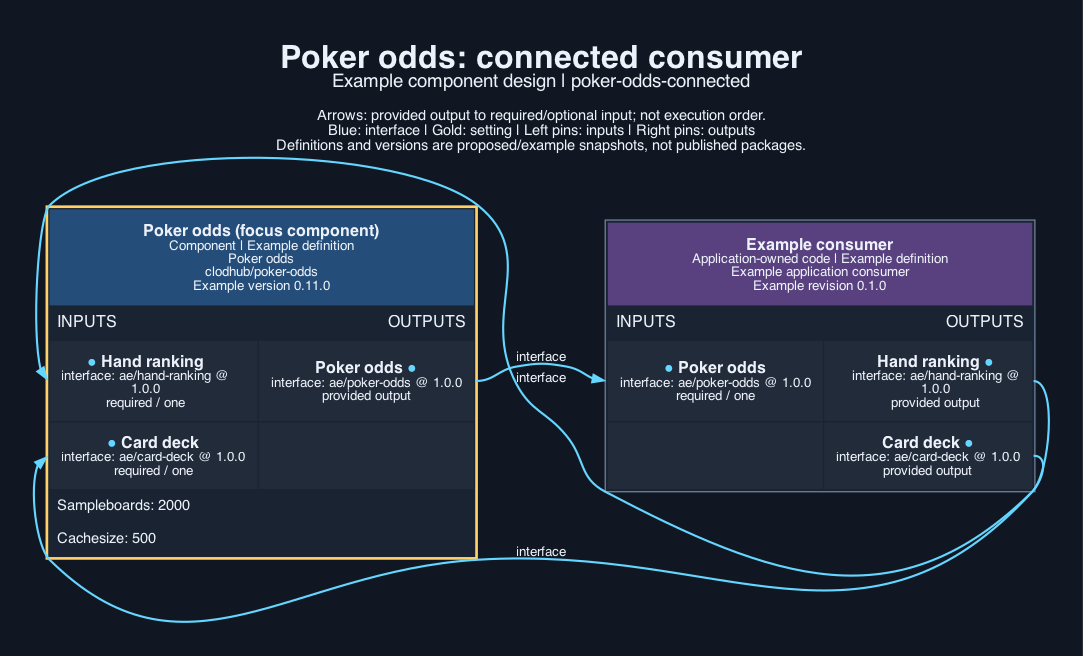
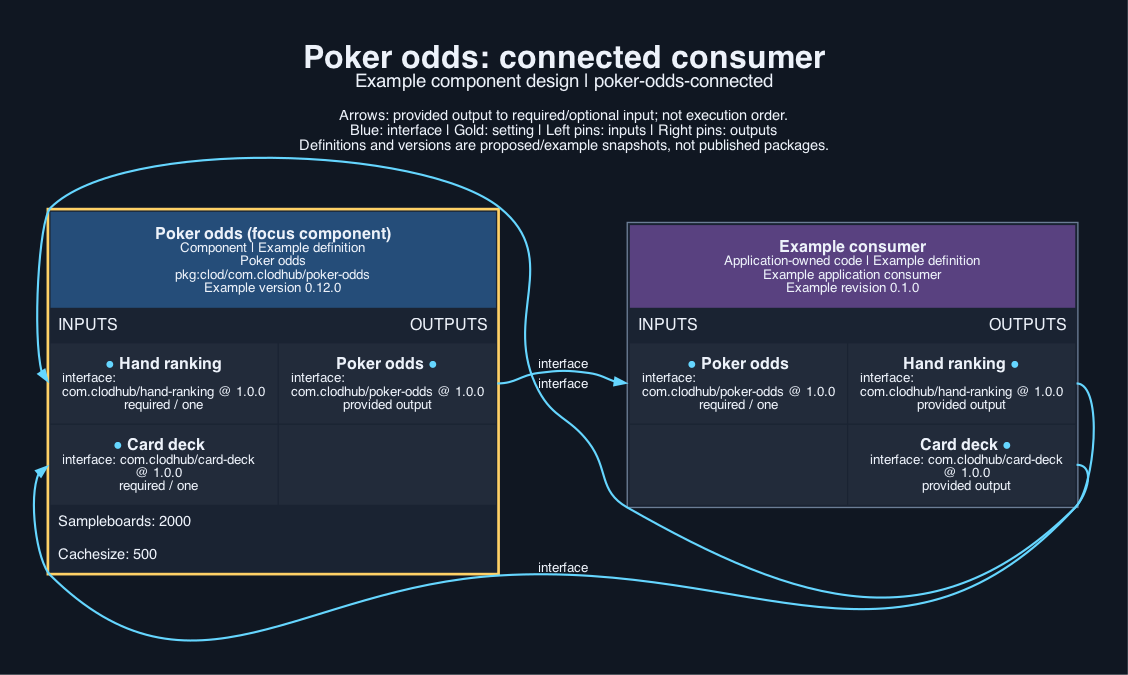
poker-odds 0.12.0: package URL names, clod, com.clodhub interface types

diff --git a/implementation/server/types.ts b/implementation/server/types.ts
@@ -1,4 +1,4 @@
-// The part of the hand-ranking and card-deck interfaces that odds reads (ae/hand-ranking 1.0.0).
+// The part of the hand-ranking and card-deck interfaces that odds reads (com.clodhub/hand-ranking 1.0.0).
 export type Card = string;
 
 export type Evaluation = { score: number; category: string; ranks: number[]; name: string };

diff --git a/INSTRUCTIONS.md b/INSTRUCTIONS.md
@@ -3,13 +3,13 @@
 ## For the agent
 Select this component when the application teaches or displays hand chances, and always when poker-strategy is selected. Connect its hand-ranking input to poker-hand-ranking and its card-deck input to the application's card-deck. Leave the settings at their defaults unless the pre-flop rows are too slow or too coarse.
 
-- Select package `clodhub/poker-odds` version `0.11.0`.
+- Select package `pkg:clod/com.clodhub/poker-odds` version `0.12.0`.
 - Settings to configure:
   - `sampleBoards` (integer; optional; default `2000`)
   - `cacheSize` (integer; optional; default `500`)
-- Connect the provided `poker-odds` (ae/poker-odds 1.0.0) to the consumer that needs it.
-- Supply `hand-ranking` (ae/hand-ranking 1.0.0) from the component that provides it.
-- Supply `card-deck` (ae/card-deck 1.0.0) from the component that provides it.
+- Connect the provided `poker-odds` (com.clodhub/poker-odds 1.0.0) to the consumer that needs it.
+- Supply `hand-ranking` (com.clodhub/hand-ranking 1.0.0) from the component that provides it.
+- Supply `card-deck` (com.clodhub/card-deck 1.0.0) from the component that provides it.
 - No accounts or keys are needed.
 
 ## For the developer
@@ -19,4 +19,4 @@ No accounts or keys. `sampleBoards` (default 2000) is the number of pre-flop boa
 From the component directory:
 
 - `node --test tests/server.test.ts` (web, required-local; tools: node 26.5)
-- `python3 -m aepm review <digest> --store STORE --policy POLICY --trusted --allow-network` checks an archive fetched with `python3 -m aepm fetch clodhub/poker-odds@VERSION --store STORE --from https://clodhub.com` and runs its suites.
+- `python3 -m clod review <digest> --store STORE --policy POLICY --trusted --allow-network` checks an archive fetched with `python3 -m clod fetch poker-odds@VERSION --store STORE --from https://clodhub.com` and runs its suites.

diff --git a/CONTRACT.md b/CONTRACT.md
@@ -22,11 +22,11 @@ Dependencies: none.
 `tools.lock.json` pins verification tools: node 26.5. Licence: `Apache-2.0` (`LICENCE`, `NOTICE`).
 
 ## Provided interfaces
-- `interfaces/poker-odds.json` defines `poker-odds` (ae/poker-odds) version 1.0.0: an OpenRPC 1.3.2 document, one method per function (a member of a created object is `<Type>.<member>`), with parameter, result and data types as JSON Schema 2020-12 (`components.schemas`) and thrown errors under `errors`.
+- `interfaces/poker-odds.json` defines `poker-odds` (com.clodhub/poker-odds) version 1.0.0: an OpenRPC 1.3.2 document, one method per function (a member of a created object is `<Type>.<member>`), with parameter, result and data types as JSON Schema 2020-12 (`components.schemas`) and thrown errors under `errors`.
 
 ## Required interfaces
-- `hand-ranking` (ae/hand-ranking) version 1.0.0, supplied by the recipe or application.
-- `card-deck` (ae/card-deck) version 1.0.0, supplied by the recipe or application.
+- `hand-ranking` (com.clodhub/hand-ranking) version 1.0.0, supplied by the recipe or application.
+- `card-deck` (com.clodhub/card-deck) version 1.0.0, supplied by the recipe or application.
 
 Each `interfaces/required-<id>.json` is a byte copy of the providing component's document.
 

diff --git a/visual/output/description.md b/visual/output/description.md
@@ -1,3 +1,3 @@
 # Poker odds
 
-The poker-odds component at version 0.11.0 provides ae/poker-odds version 1.0.0 to an illustrative application consumer, which in turn supplies ae/hand-ranking version 1.0.0 and ae/card-deck version 1.0.0. The 3 arrows each run from a named output to a required input of the same type and version. Setting values shown are placeholders and secrets appear only as references.
+The poker-odds component at version 0.12.0 provides com.clodhub/poker-odds version 1.0.0 to an illustrative application consumer, which in turn supplies com.clodhub/hand-ranking version 1.0.0 and com.clodhub/card-deck version 1.0.0. The 3 arrows each run from a named output to a required input of the same type and version. Setting values shown are placeholders and secrets appear only as references.

diff --git a/.opencode/knowledge/workflow.md b/.opencode/knowledge/workflow.md
@@ -2,5 +2,5 @@
 
 Repository: `clodhub/poker-odds`. Licence: `Apache-2.0` (`LICENCE`, `NOTICE`).
 Suite commands (from the package root): `node --test tests/server.test.ts`.
-Review a fetched archive: `python3 -m aepm review <digest> --store STORE --policy POLICY --trusted --allow-network`.
+Review a fetched archive: `python3 -m clod review <digest> --store STORE --policy POLICY --trusted --allow-network`.
 Always run Python with `-B`; never write bytecode into the repository.
